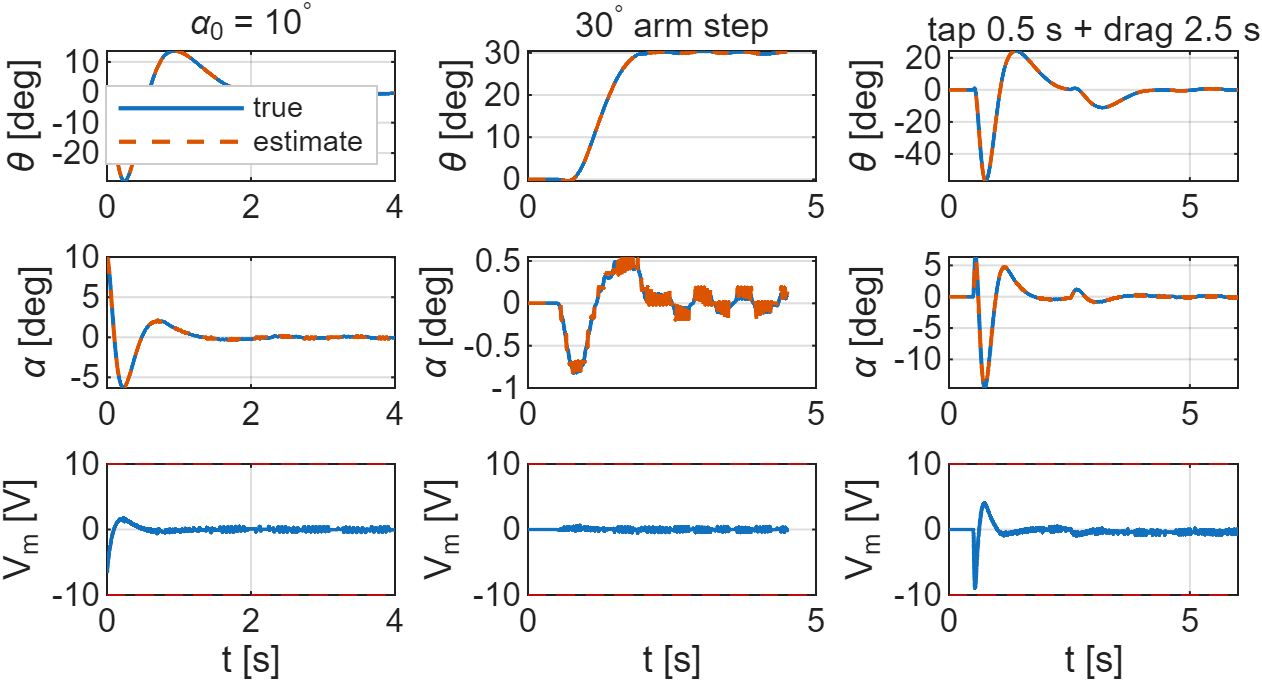
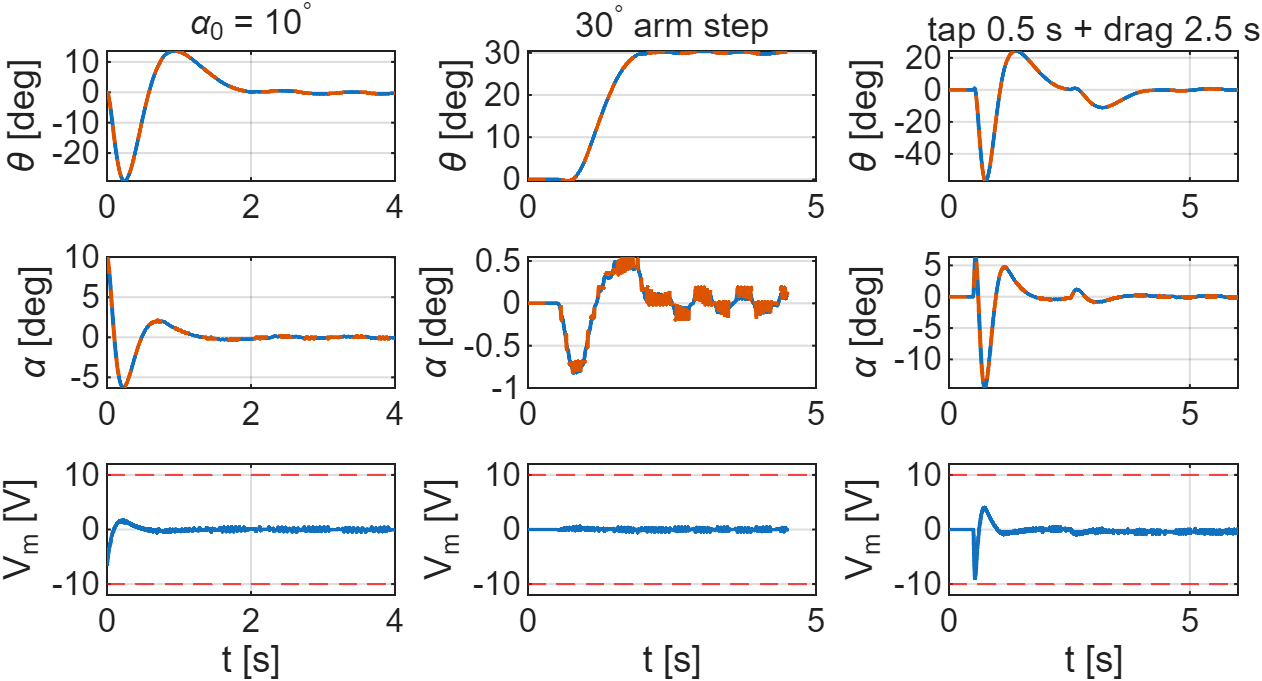
Enhance MATLAB and report files for improved clarity and functionality
- Updated `week9_model_and_openloop.m` to include condition numbers in reachability and observability rank outputs for better diagnostics.
- Modified `expected_results.txt` to reflect changes in reachability and observability ranks with condition numbers.
- Improved `furuta_diagram.py` to ensure the output directory for figures is created if it doesn't exist.
- Revised `main.tex` to correct parameter checks and improve clarity in the description of disturbances and design criteria.
- Adjusted references to disturbances in the design criteria section for consistency and clarity.
- Updated the README file to accurately describe the contents and purpose of the `furuta_nl.m` file.

diff --git a/report/main.tex b/report/main.tex
@@ -106,7 +106,7 @@ D_\eta&=\begin{bmatrix}D_r+k_tk_m/R_m&0\\0&D_p\end{bmatrix}, & K_\eta&=\begin{bm
 Here $M$ is the inertia matrix, $D_\eta$ contains the viscous damping and the effective damping from the motor back-EMF, $K_\eta$ contains the gravitational term, and $G$ maps the motor voltage to torque on the arm. The negative entry in $K_\eta$ means gravity pushes the pendulum away from upright, which is the source of the instability.
 
 \subsection{Parameters}
-Table~\ref{tab:params} lists the parameters. Most match a published model of the Quanser QUBE-Servo~2 \cite{xu2023}, and the motor constants match a commercial coreless DC motor \cite{allied}. We model the arm as a uniform bar with the motor at one end, so $J_r=m_rL_r^2/3$, consistent with $L_r$ being the distance from motor axis to pendulum joint and with \cite{gafvert1998}. \begin{rw}We check $m_r$ by assuming a solid aluminium bar ($2700$\,kg/m$^3$) of length $L_r$ and a $20\times20$\,mm section, which gives 0.092\,kg, within 3\% of the value used.\end{rw}
+Table~\ref{tab:params} lists the parameters. Most match a published model of the Quanser QUBE-Servo~2 \cite{xu2023}, and the motor constants match a commercial coreless DC motor \cite{allied}. We model the arm as a uniform bar with the motor at one end, so $J_r=m_rL_r^2/3$, consistent with $L_r$ being the distance from motor axis to pendulum joint and with \cite{gafvert1998}. \begin{rw}We check $m_r$ by assuming a solid aluminium bar ($2700$\,kg/m$^3$) of length $L_r$ and a $20\times20$\,mm section, which gives 0.092\,kg, within 4\% of the value used.\end{rw}
 \begin{table}[t]
 \caption{Model parameters}\label{tab:params}
 \centering\footnotesize\setlength{\tabcolsep}{3pt}
@@ -130,7 +130,7 @@ $k_t, k_m$ & Torque / back-EMF constant & 0.042\,N\,m/A & \cite{xu2023}\\ \hline
 \end{table}
 
 \subsection{Disturbances}
-We model three disturbances: a bump to the pendulum, as a 20\,mN\,m, 20\,ms torque pulse on the pendulum (about a 4.4\,rad/s velocity kick); constant arm drag from the encoder cable or motor friction, as a 2\,mN\,m step; and random unmodelled torques, as sample-held white noise with assumed standard deviations of 0.2 and 0.05\,mN\,m on the arm and pendulum.
+We model three disturbances: a tap on the pendulum, as a 20\,mN\,m, 20\,ms torque pulse on the pendulum (about a 4.4\,rad/s velocity kick); constant arm drag from the encoder cable or motor friction, as a 2\,mN\,m step; and random unmodelled torques, as sample-held white noise with assumed standard deviations of 0.2 and 0.05\,mN\,m on the arm and pendulum.
 \begin{rw}
 These enter through $\tau_p$ and $\tau_d$ in \eqref{eq:arm}--\eqref{eq:pend}. The pulse represents a firm knock and is the hardest test for the observer, as it only sees the kick in $\alpha$ afterwards. The drag is about 4\% of the 0.05\,N\,m stall torque and a fifth of the 10\,mN\,m Coulomb friction G\"afvert identified on a larger rig~\cite{gafvert1998}. The random torques are assumed. The pulse tests the 15\textdegree{} limit, the drag the steady-state error and the noise the voltage (Section~V-D).
 \end{rw}
@@ -138,9 +138,9 @@ These enter through $\tau_p$ and $\tau_d$ in \eqref{eq:arm}--\eqref{eq:pend}. Th
 \subsection{Sensors and noise}
 Only $\theta$ and $\alpha$ are measured, by 512-cycle optical encoders read in quadrature (2048 counts/rev)~\cite{heds5540}. The output is digital, so the dominant error is quantisation:
 \begin{equation}
-y_k = q\,\mathrm{round}\!\left(\frac{Cx(kT_s)+b}{q}\right),\quad q=\frac{2\pi}{2048}\text{ rad},\label{eq:quant}
+y_k = q\,\mathrm{round}\!\left(\frac{Cx(kT_s)+b_e}{q}\right),\quad q=\frac{2\pi}{2048}\text{ rad},\label{eq:quant}
 \end{equation}
-which behaves like noise of standard deviation $\sigma_v=q/\sqrt{12}=0.886$\,mrad while the angle is changing. \begin{rw}The datasheet's position error (10\,arcmin typical, 40 maximum) varies slowly with angle, hence it is modelled as a constant offset $b$.\end{rw} Velocities are not measured, and differentiating \eqref{eq:quant} is impractical because one count per sample is a $176^\circ$/s jump, which is why an observer is needed.
+which behaves like noise of standard deviation $\sigma_v=q/\sqrt{12}=0.886$\,mrad while the angle is changing. \begin{rw}The datasheet's position error (10\,arcmin typical, 40 maximum) varies slowly with angle, hence it is modelled as a constant offset $b_e$.\end{rw} Velocities are not measured, and differentiating \eqref{eq:quant} is impractical because one count per sample is a $176^\circ$/s jump, which is why an observer is needed.
 
 \subsection{Limitations}
 Simplifications are made by ignoring the Coulomb friction and stiction observed in real joints \cite{gafvert1998,bellati2021}, link flexibility, and the motor's rotor inertia. The last is justified from the motor's datasheet \cite{allied}: the rotor adds less than 2\% of the arm's inertia $J_r$.
@@ -155,12 +155,12 @@ A motor with matching constants \cite{allied} is rated at 18\,V, 0.54\,A continu
 % =====================================================================
 \section{Problem Definition}
 \subsection{Aim}
-The aim is to keep the pendulum upright, move the arm to a commanded angle $r$, and reject bumps within the actuator limits. The design criteria are chosen so that the limits of the hardware are not exceeded, with the rise and settling times set as fast as the motor voltage limit and the non-minimum-phase arm dynamics allow.
+The aim is to keep the pendulum upright, move the arm to a commanded angle $r$, and reject disturbances such as a tap within the actuator limits. Arm positioning matters because a balancing vehicle must also move to a commanded position while upright~\cite{pujol2014}. The design criteria are chosen so that the limits of the hardware are not exceeded, with the rise and settling times set as fast as the motor voltage limit and the non-minimum-phase arm dynamics allow.
 
 \subsection{State-space model}
 The system is linearised about the upright equilibrium $\bar x=[\bar\theta\;\;0\;\;0\;\;0]^T$, $\bar u=0$. Because the arm moves in the horizontal plane, it is in equilibrium at every angle $\bar\theta$, so a single linear model is valid whatever angle the arm is commanded to, while the pendulum must stay near $\alpha=0$ for the small-angle linearisation to hold.
 
-From the arm's point of view, the pendulum adds a mass $m_p$ at radius $L_r$, so the total effective inertia of the arm is $a=J_r+m_pL_r^2$, which forms the $(1,1)$ entry of $M$. Since the arm moves in the horizontal plane, gravity does no work on it, so the first column of $K_\eta$, and hence of $A_{21}$, is zero and the arm angle behaves as a free integrator with an open-loop pole at the origin.
+From the arm's point of view, the pendulum adds a mass $m_p$ at radius $L_r$, so the total effective inertia of the arm is $a=J_r+m_pL_r^2$, which forms the $(1,1)$ entry of $M$. Gravity does no work on the horizontal arm, so the first column of $K_\eta$, and hence of $A_{21}$, is zero and the arm angle behaves as a free integrator with an open-loop pole at the origin.
 Choosing the state vector $x=[\theta\;\;\alpha\;\;\dd\;\;\da]^T=[\eta\;\;\dot\eta]^T$ and input $u=V_m$, and solving for the accelerations, $\ddot\eta=-M^{-1}K_\eta\eta-M^{-1}D_\eta\dot\eta+M^{-1}Gu$, the state derivative follows by stacking the trivial relation $\frac{d}{dt}\eta=\dot\eta$ above this result,
 \begin{equation}
 \dot x=\begin{bmatrix}\dot\eta\\\ddot\eta\end{bmatrix}=\begin{bmatrix}0_{2\times2}&I_2\\-M^{-1}K_\eta&-M^{-1}D_\eta\end{bmatrix}\begin{bmatrix}\eta\\\dot\eta\end{bmatrix}+\begin{bmatrix}0_{2\times1}\\M^{-1}G\end{bmatrix}u, \label{eq:stack}
@@ -178,9 +178,9 @@ B=\begin{bmatrix}0\\0\\18.37\\18.16\end{bmatrix}.
 The open-loop poles are $0$, $-14.06$, $-1.75$ and $+12.09$\,rad/s. The pole at $+12.09$\,rad/s confirms that the upright equilibrium is unstable. The transfer function from $V_m$ to $\theta$ also has a right-half-plane zero at $+10.31$\,rad/s: the arm first moves the wrong way, to tip the pendulum in the direction of travel. This limits how fast the arm can be made to track.
 
 \subsection{Design criteria}
-The controller is designed around the following main requirements. The pendulum must recover from a $10^\circ$ displacement to within $1^\circ$ of upright in under 1.5\,s. When the arm is commanded to $30^\circ$, the response must have an overshoot below 5\%, an undershoot below 10\%, a rise time of at least 0.3\,s and a settling time below 2.5\,s. Throughout, the peak motor voltage must stay below 10\,V. The controller must also reject disturbances: after a bump to the pendulum, the pendulum must stay within $15^\circ$ of upright and the arm within $90^\circ$. The $15^\circ$ bound is not the angle at which the pendulum falls; the controller can still catch it beyond this, by moving the arm under the pendulum, provided the motor is not saturated. Under a constant arm drag the final arm angle error must be below $2^\circ$. Finally, the design should remain stable under $\pm20\%$ variations in the model parameters. \begin{rw}Table~\ref{tab:req} lists these alongside the results from Section~V.\end{rw}
+The controller is designed around the following main requirements. The pendulum must recover from a $10^\circ$ displacement to within $1^\circ$ of upright in under 1.5\,s. When the arm is commanded to $30^\circ$, the response must have an overshoot below 5\%, an undershoot below 10\%, a rise time of at least 0.3\,s and a settling time below 2.5\,s. Throughout, the peak motor voltage must stay below 10\,V. The controller must also reject disturbances: after a tap on the pendulum, the pendulum must stay within $15^\circ$ of upright and the arm within $90^\circ$. The $15^\circ$ bound is not the angle at which the pendulum falls; the controller can still catch it beyond this, by moving the arm under the pendulum, provided the motor is not saturated. Under a constant arm drag the final arm angle error must be below $2^\circ$. Finally, the design should remain stable under $\pm20\%$ variations in the model parameters. \begin{rw}Table~\ref{tab:req} lists these alongside the results from Section~V.\end{rw}
 
-\emph{Speed:} the right-half-plane zero of the $V_m\to\theta$ transfer function at $z=10.31$\,rad/s limits the achievable arm tracking bandwidth to approximately $\omega_B<z/2\approx5.2$\,rad/s~\cite{skogestad2005}. Taking $\omega_n\approx\omega_B$, this gives a minimum rise time of roughly $1.8/\omega_n\approx0.35$\,s and, with $\zeta\approx0.7$, a minimum settling time of roughly $4/(\zeta\omega_n)\approx1.1$\,s. The rise time of at least 0.3\,s and settling time below 2.5\,s are therefore realistic, while leaving margin for the voltage limit and model error. \begin{rw}The voltage limit gives a similar bound (Section~IV-B).\end{rw} The same zero makes some undershoot unavoidable, so it is limited rather than eliminated. \emph{Recovery:} \begin{rw}the 1.5\,s recovery time is a design choice, shorter than the 2.5\,s allowed for an arm step.\end{rw} \emph{Limits:} the 10\,V limit is a conservative design choice (Section~II-F), the $15^\circ$ pendulum bound keeps the small-angle approximation error below 1.2\% for $\sin\alpha$ (3.4\% for $\cos\alpha$), and the $90^\circ$ arm bound is a workspace limit we chose (Section~II-F). \emph{Overshoot:} the 5\% limit prevents the arm from swinging the pendulum excessively. \emph{Disturbances and robustness:} the drag criterion reflects the significant arm-joint friction identified experimentally in~\cite{gafvert1998}, and the $\pm20\%$ criterion reflects the uncertainty in the damping and motor parameters. Using $\zeta=-\ln(OS)/\sqrt{\pi^2+\ln^2(OS)}$ and $T_s\approx4/(\zeta\omega_n)$, the overshoot and settling criteria require $\zeta\ge0.69$ and $\zeta\omega_n\ge1.6$\,rad/s. The remaining criteria cannot be written as pole conditions and are verified in simulation in Section~V.
+\emph{Speed:} the right-half-plane zero of the $V_m\to\theta$ transfer function at $z_0=10.31$\,rad/s limits the achievable arm tracking bandwidth to approximately $\omega_B<z_0/2\approx5.2$\,rad/s~\cite{skogestad2005}. Taking $\omega_n\approx\omega_B$, this gives a minimum rise time of roughly $1.8/\omega_n\approx0.35$\,s and, with $\zeta\approx0.7$, a minimum settling time of roughly $4/(\zeta\omega_n)\approx1.1$\,s. The rise time of at least 0.3\,s and settling time below 2.5\,s are therefore realistic, while leaving margin for the voltage limit and model error. \begin{rw}The voltage limit gives a similar bound (Section~IV-B).\end{rw} The same zero makes some undershoot unavoidable, so it is limited rather than eliminated. \emph{Recovery:} \begin{rw}the 1.5\,s recovery time is a design choice, shorter than the 2.5\,s allowed for an arm step.\end{rw} \emph{Limits:} the 10\,V limit is a conservative design choice (Section~II-F), the $15^\circ$ pendulum bound keeps the small-angle approximation error below 1.2\% for $\sin\alpha$ (3.4\% for $\cos\alpha$), and the $90^\circ$ arm bound is a workspace limit we chose (Section~II-F). \emph{Overshoot:} the 5\% limit prevents the arm from swinging the pendulum excessively. \emph{Disturbances and robustness:} the drag criterion reflects the significant arm-joint friction identified experimentally in~\cite{gafvert1998}, and the $\pm20\%$ criterion reflects the uncertainty in the damping and motor parameters. Using $\zeta=-\ln(OS)/\sqrt{\pi^2+\ln^2(OS)}$ and $T_s\approx4/(\zeta\omega_n)$, the overshoot and settling criteria require $\zeta\ge0.69$ and $\zeta\omega_n\ge1.6$\,rad/s. The remaining criteria cannot be written as pole conditions and are verified in simulation in Section~V.
 
 \begin{table}[t]
 \caption{Design criteria and results on the nonlinear model}\label{tab:req}
@@ -194,11 +194,11 @@ Recovery from 10\textdegree: $|\alpha|<1^\circ$ & $\le1.5$\,s & 0.97\,s\\
 30\textdegree{} step: undershoot & $\le10$\% & 1.3\%\\
 30\textdegree{} step: rise time & $\ge0.3$\,s & 0.75\,s\\
 Peak voltage (recovery, step, tap) & $\le10$\,V & 9.0\,V\\
-Bump: $\max|\alpha|$ & $\le15^\circ$ & 14.6\textdegree\\
-Bump: $\max|\theta|$ & $\le90^\circ$ & 57.0\textdegree\\
+Tap: $\max|\alpha|$ & $\le15^\circ$ & 14.6\textdegree\\
+Tap: $\max|\theta|$ & $\le90^\circ$ & 57.0\textdegree\\
 Arm drag: mean final $\theta$ error & $<2^\circ$ & 0.25\textdegree\\
 $\pm20$\%: recovers from 10\textdegree{} & all & 38/40 (partial)\\
-$\pm20$\%: also survives bump & all & 31/40 (partial)\\
+$\pm20$\%: also survives tap & all & 31/40 (partial)\\
 \hline
 \end{tabular}
 \end{table}
@@ -207,7 +207,7 @@ $\pm20$\%: also survives bump & all & 31/40 (partial)\\
 \section{Controller Design}
 \subsection{Reachability and observability}
 \begin{rw}
-The reachability matrix has rank 4, so all poles can be placed using the single voltage input. The observability matrix has rank 4 using both encoders or $\theta$ alone, but rank 3 with $\alpha$ alone, as the arm angle does not affect the pendulum dynamics.
+The reachability matrix has rank 4 (condition number $3.7\times10^3$), so all poles can be placed using the single voltage input. The observability matrix has rank 4 using both encoders (condition number 457) or $\theta$ alone, but rank 3 with $\alpha$ alone, as the arm angle does not affect the pendulum dynamics.
 \end{rw}
 
 \subsection{State feedback: an iterative design}
@@ -219,11 +219,11 @@ As the plant has four states, we choose a dominant pole pair inside the pole reg
 \item \emph{D3, slower dominant pair.} $\omega_n=3$\,rad/s only saves 0.6\,V and leaves little settling margin (2.15\,s).
 \item \emph{D4, more damping.} $\zeta=0.75$, chosen for margin above 0.69, and $\omega_n=3.6$\,rad/s give $-2.7\pm2.38j$, with fast poles at $4\sigma$ and $5\sigma$ for $\sigma=\zeta\omega_n=2.7$. This has the lowest voltage and less overshoot than D1--D3.
 \end{itemize}
-Faster poles need more voltage, which we found iteratively. With $\zeta=0.75$, fast poles at $4\sigma$ and $5\sigma$ and the true state, recovering from a 10\textdegree{} tilt initially needs 4.6\,V at $\omega_n=3.6$\,rad/s but 10\,V at $\omega_n=5.7$\,rad/s. An early 0.8\,s settling target needed $\omega_n\approx6.7$\,rad/s and 13.5\,V, hence we dropped it. D2 and D4 both meet the criteria on the linear model.
+Faster poles need more voltage, which we found iteratively. With $\zeta=0.75$, fast poles at $4\sigma$ and $5\sigma$ and the true state, recovering from a 10\textdegree{} tilt initially needs 4.6\,V at $\omega_n=3.6$\,rad/s but 10\,V at $\omega_n=5.7$\,rad/s. An early 0.8\,s settling target needed $\omega_n\approx6.7$\,rad/s and 13.5\,V, hence we dropped it. D2--D4 all meet the criteria on the linear model.
 
-Testing on the nonlinear model exposed a problem, as without integral action a constant 2\,mN\,m drag leaves the arm resting 26\textdegree{} from its target with the pendulum upright. Holding the arm against the drag needs a steady $\tau_dR_m/k_t=0.4$\,V, which proportional feedback can only provide through an error of $0.4/|k_\theta|$ ($k_\theta=-0.90$ for D4 without the integrator). Hence we added an integrator $\dot\xi=\theta-r$, which keeps growing until $\theta=r$ and therefore supplies this voltage itself. The augmented model $\dot x_a=\left[\begin{smallmatrix}A&0\\C_r&0\end{smallmatrix}\right]x_a+\left[\begin{smallmatrix}B\\0\end{smallmatrix}\right]u-\left[\begin{smallmatrix}0\\1\end{smallmatrix}\right]r$, with $x_a=[x^T\;\xi]^T$, has a fifth pole, which we place at $-5$, between the dominant pair and the fast poles. Feeding the reference through the integrator only, rather than also through
+Testing on the nonlinear model exposed a problem, as without integral action a constant 2\,mN\,m drag leaves the arm (D4, true state) resting 26\textdegree{} from its target with the pendulum upright. Holding the arm against the drag needs a steady $\tau_dR_m/k_t=0.4$\,V, which proportional feedback can only provide through an error of $0.4/|k_\theta|$ ($k_\theta=-0.90$ for D4 without the integrator). Hence we added an integrator $\dot\xi=\theta-r$, which keeps growing until $\theta=r$ and therefore supplies this voltage itself. The augmented model $\dot x_a=\left[\begin{smallmatrix}A&0\\C_r&0\end{smallmatrix}\right]x_a+\left[\begin{smallmatrix}B\\0\end{smallmatrix}\right]u-\left[\begin{smallmatrix}0\\1\end{smallmatrix}\right]r$, with $x_a=[x^T\;\xi]^T$, has a fifth pole, which we place at $-5$, between the dominant pair and the fast poles. Feeding the reference through the integrator only, rather than also through
 the proportional term, cut the overshoot from 51\% to 1.7\%. D4 then beat
-D2 on every test (Table~\ref{tab:designs}), so it was chosen, giving the
+D2 on every test with the integrator and observer (settling in 1.38 compared to 1.97\,s, and a 14.6 compared to 15.0\textdegree{} tap at 9.0 compared to 9.7\,V), so it was chosen, giving the
 final control law
 
 \begin{equation}
@@ -237,7 +237,7 @@ with closed-loop poles $-2.7\pm2.38j$, $-5$, $-10.8$, $-13.5$. The negative arm 
 \end{rw}
 
 \begin{table}[t]
-\caption{Candidate designs without the integrator (reference through $k_\theta$): linear $\theta$ step, initial voltage at 10\textdegree, and largest recoverable tilt (nonlinear)}\label{tab:designs}
+\caption{Candidate designs without the integrator (reference through $k_\theta$): linear $\theta$ step with overshoot (OS) and undershoot (US), initial voltage $V_{10^\circ}$ for a 10\textdegree{} tilt, and largest recoverable tilt (nonlinear)}\label{tab:designs}
 \centering\footnotesize\setlength{\tabcolsep}{2.5pt}
 \begin{tabular}{llllllll}
 \hline
@@ -277,7 +277,7 @@ L_1=\begin{bmatrix}227.4&-0.36\\-2.58&228.9\end{bmatrix},\quad L_2=\begin{bmatri
 \begin{rw}
 Here $L_1$ acts as damping and $L_2$ as stiffness on the angle errors, and $\mathrm{eig}(A-LC)$ matches these poles to $10^{-12}$.
 
-\emph{Choice of poles.} These poles are 7.4--9.6 times faster than the fastest controller pole, and Table~\ref{tab:obs} shows why. Slow observers give smooth estimates, but react too late to a bump and leave more perturbed plants unstable, which is consistent with the loss of guaranteed margins in observer-based loops \cite{doyle1978}. Very fast observers turn quantisation into voltage noise. This set is the slowest we tested that still meets the bump limit.
+\emph{Choice of poles.} These poles are 7.4--9.6 times faster than the fastest controller pole, and Table~\ref{tab:obs} shows why. Slow observers give smooth estimates, but react too late to a tap and leave more perturbed plants unstable, which is consistent with the loss of guaranteed margins in observer-based loops \cite{doyle1978}. Very fast observers turn quantisation into voltage noise. This set is the slowest we tested that still meets the tap limit.
 
 \emph{Implementation.} The encoders are read at $T_s=1$\,ms, hence the observer runs in discrete time. It uses the plant sampled with a zero-order hold and is driven by the saturated voltage, so that its estimate stays correct during saturation:
 \end{rw}
@@ -293,7 +293,7 @@ The same poles map to $z=e^{pT_s}$ ($|z|\le0.905$). We compute the sampled gain 
 \centering\footnotesize\setlength{\tabcolsep}{3pt}
 \begin{tabular}{lllll}
 \hline
-Poles (rad/s) & RMS $u$ (V) & RMS $\da$ error (\textdegree/s) & Bump & Unstable/200\\ \hline
+Poles (rad/s) & RMS $u$ (V) & RMS $\da$ error (\textdegree/s) & Tap & Unstable/200\\ \hline
 $-15\ldots-18$ & 0.045 & 0.53 & falls & 52\\
 $-40\ldots-55$ & 0.095 & 1.05 & 20.4\textdegree & 10\\
 $\mathbf{-100\ldots-130}$ & 0.216 & 2.94 & 14.6\textdegree & 3\\
@@ -305,7 +305,7 @@ True state & -- & -- & 11.4\textdegree & 1\\
 
 \subsection{Stability ranges and margins}
 \begin{rw}
-Table~\ref{tab:ranges} gives the stable range of each gain with the others nominal, and of all gains scaled together; any negative $k_i$ down to $-14.5$ is stable, as $k_i=0$ only leaves the integrator pole at $z=1$. Figure~\ref{fig:margins} in the Appendix shows the loop broken at the plant input. As the loop has one unstable open-loop pole, stability requires the Nyquist plot to encircle $-1$ once. The gain can fall to 0.59 times ($-4.6$\,dB) or rise to 6.7 times ($+16.6$\,dB) nominal before instability. The lower limit exists because an unstable plant needs a minimum gain. The phase margin is 36\textdegree{} and the delay margin 29\,ms. With the true state fed back the phase margin is 59\textdegree, hence the observer costs about 23\textdegree{}.
+Table~\ref{tab:ranges} gives the stable range of each gain with the others nominal, and of all gains scaled together; any negative $k_i$ down to $-14.5$ is stable, as $k_i=0$ only leaves the integrator pole at $z=1$. Figure~\ref{fig:margins} in the Appendix shows the loop broken at the plant input. As the loop has one unstable open-loop pole, stability requires the Nyquist plot to encircle $-1$ once anticlockwise. The gain can fall to 0.59 times ($-4.6$\,dB) or rise to 6.7 times ($+16.6$\,dB) nominal before instability. The lower limit exists because an unstable plant needs a minimum gain. The phase margin is 36\textdegree{} and the delay margin 29\,ms. With the true state fed back the phase margin is 59\textdegree, hence the observer costs about 23\textdegree{}.
 \end{rw}
 
 \begin{table}[t]
@@ -332,7 +332,7 @@ All tests use the nonlinear model \eqref{eq:arm}--\eqref{eq:motor}, integrated w
 
 \begin{figure*}[t]
 \centering\includegraphics[width=4.21in]{w12_validation_overview.png}
-\caption{Nonlinear closed-loop responses with the observer: release from 10\textdegree{} (left), reference step from 0 to 30\textdegree{} at 0.5\,s (centre), tap at 0.5\,s and arm drag from 2.5\,s (right). Rows: arm angle, pendulum angle (true and estimated), motor voltage with limits.}
+\caption{Nonlinear closed-loop responses with the observer: release from 10\textdegree{} (left), reference step from 0 to 30\textdegree{} at 0.5\,s (centre), tap at 0.5\,s and arm drag from 2.5\,s (right). Rows: arm angle, pendulum angle and motor voltage; solid: true, dashed: estimated, red dashed: $\pm10$\,V limits.}
 \label{fig:overview}
 \end{figure*}
 
@@ -340,7 +340,7 @@ All tests use the nonlinear model \eqref{eq:arm}--\eqref{eq:motor}, integrated w
 \begin{rw}
 On the left of Fig.~\ref{fig:overview}, the pendulum is released from 10\textdegree{} with the arm at rest. It is within 1\textdegree{} of upright after 0.97\,s, with the voltage peaking at 6.6\,V and a current of 0.79\,A.
 
-The centre column is the 30\textdegree{} arm step, with $r$ stepping from 0 to 30\textdegree{} at $t=0.5$\,s. Measured from that instant, the 10--90\% rise time is 0.75\,s and the 2\% ($\pm0.6$\textdegree) settling time 1.38\,s. The arm first moves 0.4\textdegree{} the wrong way (1.3\% undershoot), as the right-half-plane zero predicts, and then overshoots by 1.4\%. The pendulum tilts by at most 0.82\textdegree{} and only uses 0.63\,V.
+The centre column is the 30\textdegree{} arm step, with $r$ stepping from 0 to 30\textdegree{} at $t=0.5$\,s. Measured from that instant, the 10--90\% rise time is 0.75\,s and the 2\% ($\pm0.6$\textdegree) settling time 1.38\,s. The arm first moves 0.4\textdegree{} the wrong way (1.3\% undershoot), as the right-half-plane zero predicts, and then overshoots by 1.4\%. The pendulum tilts by at most 0.82\textdegree, and the step needs only 0.63\,V.
 \end{rw}
 
 \subsection{Linear versus nonlinear model}
@@ -350,31 +350,31 @@ Figure~\ref{fig:linnl} in the Appendix compares the same controller on both mode
 
 \subsection{Estimation error}
 \begin{rw}
-Figure~\ref{fig:obs} in the Appendix tests convergence from the worst-case start, where the pendulum is released from 10\textdegree{} while the observer starts at $\hat x=0$. The angle estimates correct first ($\hat\alpha$ is within 1\textdegree{} after 7\,ms), while the velocity estimates overshoot, because the observer treats the angle error as motion. The rate-error norm peaks at 7.2\,rad/s after 9\,ms and falls to about 0.04\,rad/s by 60\,ms, consistent with observer time constants of about 10\,ms. All eigenvalues of $A_d-L_dC$ lie inside the unit circle, so the error converges to zero: with exact encoders the same start gives an error norm of $5\times10^{-6}$ by 1\,s (dashed in Fig.~\ref{fig:obs}). With quantisation it reaches a noise floor: after 0.2\,s the RMS errors are 0.72 and 1.0\,mrad on the angles, close to $\sigma_v=0.886$\,mrad, and 1.7 and 2.5\textdegree/s on the velocities. This start holds the voltage at the 10\,V limit for 24\,ms, whereas the true state only needs 6.6\,V, hence the other tests initialise $\hat x$ from the first encoder reading.
+Figure~\ref{fig:obs} in the Appendix tests convergence from the worst-case start, where the pendulum is released from 10\textdegree{} while the observer starts at $\hat x=0$. The angle estimates correct first ($\hat\alpha$ is within 1\textdegree{} after 7\,ms), while the velocity estimates overshoot, because the observer treats the angle error as motion. The rate-error norm peaks at 7.2\,rad/s after 9\,ms and falls to about 0.04\,rad/s by 60\,ms, consistent with observer time constants of about 10\,ms. All eigenvalues of $A_d-L_dC$ lie inside the unit circle, so the error converges to zero: with exact encoders the same start gives an error norm of $5\times10^{-6}$ by 1\,s and $8\times10^{-16}$ by 4\,s (dashed in Fig.~\ref{fig:obs}). With quantisation it reaches a noise floor: after 0.2\,s the RMS errors are 0.72 and 1.0\,mrad on the angles, close to $\sigma_v=0.886$\,mrad, and 1.7 and 2.5\textdegree/s on the velocities. This start holds the voltage at the 10\,V limit for 24\,ms, whereas the true state only needs 6.6\,V, hence the other tests initialise $\hat x$ from the first encoder reading.
 \end{rw}
 
 \begin{figure}[t]
 \centering\includegraphics[width=2.41in]{w12_monte_carlo.png}
-\caption{Pendulum angle for 40 plants with $\pm20$\% random parameters, released from 10\textdegree, with a tap at 2\,s. Red: plants that fall after the tap.}
+\caption{Pendulum angle for 40 plants with $\pm20$\% random parameters, released from 10\textdegree, with a tap at 2\,s. Red: plants that fall (two before the tap).}
 \label{fig:mc}
 \end{figure}
 
 \subsection{Disturbances and measurement noise}
 \begin{rw}
-The tap (Fig.~\ref{fig:overview}, right) reaches 14.6\textdegree, which is inside the 15\textdegree{} criterion by only 0.4\textdegree, using 9.0\,V and 1.06\,A, and $|\alpha|$ is back below 1\textdegree{} after 1.05\,s. With the true state the peak is 11.4\textdegree, hence the difference comes from the observer's delay in seeing an unmeasured kick. Under arm drag the integrator leaves a mean error of 0.25\textdegree{} (26\textdegree{} without it, Section~IV-B), and 0.05\textdegree{} for the datasheet's maximum 40\,arcmin encoder offset.
+The tap (Fig.~\ref{fig:overview}, right) reaches 14.6\textdegree, which is inside the 15\textdegree{} criterion by only 0.4\textdegree, using 9.0\,V and 1.06\,A, and $|\alpha|$ is back below 1\textdegree{} after 1.05\,s. With the true state the peak is 11.4\textdegree, hence the difference comes from the observer's delay in seeing an unmeasured kick. Under arm drag the integrator leaves a mean error of 0.25\textdegree{} (26\textdegree{} with the true state and no integrator, Section~IV-B), and 0.05\textdegree{} for the datasheet's maximum 40\,arcmin encoder offset.
 
-The observer and quantiser form a small limit cycle, which the linear analysis does not predict, with about 0.7\textdegree{} peak-to-peak arm ripple and 0.22\,V RMS. This fits inside the $\pm0.6$\textdegree{} band of a 30\textdegree{} step, but moves the measured settling time from 1.43\,s without quantisation to 1.38\,s, so part of the headline 1.38\,s is due to the ripple. With the random torques added as well, the RMS voltage is 0.22\,V, the RMS pendulum and arm angles are 0.09\textdegree{} and 0.36\textdegree, and the RMS $\da$ estimation error is 2.97\textdegree/s. This voltage noise is feasible, and a slower observer would only reduce it at a cost in robustness.
+The observer and quantiser form a small limit cycle, which the linear analysis does not predict, with about 0.7\textdegree{} peak-to-peak arm ripple and 0.22\,V RMS. This fits inside the $\pm0.6$\textdegree{} band of a 30\textdegree{} step, but moves the measured settling time from 1.43\,s without quantisation to 1.38\,s, so part of the headline 1.38\,s is due to the ripple. With the random torques added as well, the RMS voltage is still 0.22\,V, the RMS pendulum and arm angles are 0.09\textdegree{} and 0.36\textdegree, and the RMS $\da$ estimation error is 2.97\textdegree/s. This voltage noise is feasible, and a slower observer would only reduce it at a cost in robustness.
 \end{rw}
 
 \subsection{Parameter uncertainty}
 \begin{rw}
-Figure~\ref{fig:mc} shows 40 plants with all parameters randomly varied by $\pm20$\%. Section~II-F justifies this range. Of these, 39 are linearly stable, 38 recover from 10\textdegree{}, and 31 also survive the tap, hence the $\pm20$\% criterion is only partly met. Over 200 random plants, 3 are linearly unstable with the observer and 1 with the true state. Plants that fall tend to have a weaker motor and a shorter arm (mean factors 0.84 and 0.91, against 1.02 and 1.01), which lower the loop gain towards its lower limit. The design also stays stable with $J_r=m_rL_r^2/12$ \cite{xu2023} (tap 8.3\textdegree) and with higher damping of 0.0015 and 0.0005 (tap 12.7\textdegree), although that plant is close to marginal ($|z|=0.9996$), with a slow wobble of about 1\,V RMS. A faster observer ($-250\ldots-280$\,rad/s) would cut the unstable plants to 2/200 at about 2.3 times the noise voltage (Table~\ref{tab:obs}), while an observer that also estimates the disturbance torque would target the robustness the observer costs.
+Figure~\ref{fig:mc} shows 40 plants with all parameters randomly varied by $\pm20$\%. Section~II-F justifies this range. Of these, 39 are linearly stable, 38 recover from 10\textdegree{}, and 31 also survive the tap, hence the $\pm20$\% criterion is only partly met. Over 200 random plants, 3 are linearly unstable with the observer and 1 with the true state. Plants that fall tend to have a weaker motor and a shorter arm (mean factors 0.84 and 0.91, against 1.02 and 1.01), which lower the loop gain towards its lower limit. The design also stays stable with $J_r=m_rL_r^2/12$ \cite{xu2023} (tap 8.3\textdegree) and with higher damping, $D_r=0.0015$ and $D_p=0.0005$\,N\,m\,s/rad (tap 12.7\textdegree), although that plant is close to marginal ($|z|=0.9996$), with a slow wobble of about 1\,V RMS. A faster observer ($-250\ldots-280$\,rad/s) would cut the unstable plants to 2/200 at about 2.3 times the noise voltage (Table~\ref{tab:obs}), while an observer that also estimates the disturbance torque would target the robustness the observer costs.
 \end{rw}
 
 % =====================================================================
 \section{Conclusions}
 \begin{rw}
-The Furuta pendulum is a nonlinear, under-actuated benchmark whose upright position requires continuous feedback. We showed that an LTI observer-based controller, designed by pole placement, stabilises the full nonlinear model at 1\,kHz within voltage limits, using only two quantised encoders. It recovers from 10\textdegree{} in 0.97\,s, tracks a 30\textdegree{} step with 1.4\% overshoot and 1.38\,s settling, and has margins of $-4.6$/$+16.6$\,dB and 36\textdegree, meeting all nominal criteria with 0.4\textdegree{} to spare on the tap limit. It catches tilts of up to 24\textdegree, but only 38 of 40 plants with $\pm20$\% parameters recover and 31 survive the tap, so the uncertainty criterion is only partly met. Testing revealed a double-counted reference, the cost of a slow observer and a quantisation limit cycle.
+The Furuta pendulum is a nonlinear, under-actuated benchmark whose upright position requires continuous feedback. We showed that an LTI observer-based controller, designed by pole placement, stabilises the full nonlinear model at 1\,kHz within voltage limits, using only two quantised encoders. It recovers from 10\textdegree{} in 0.97\,s, tracks a 30\textdegree{} step with 1.4\% overshoot and 1.38\,s settling, and has margins of $-4.6$/$+16.6$\,dB and 36\textdegree, meeting all nominal criteria with 0.4\textdegree{} to spare on the tap limit. It catches tilts of up to 24\textdegree, but only 38 of 40 plants with $\pm20$\% parameters recover and 31 survive the tap, so the uncertainty criterion is only partly met. Testing showed the reference must enter only through the integrator, and revealed the cost of a slow observer and a 0.7\textdegree{} quantisation limit cycle.
 
 Future work should measure the damping (the least certain parameter) and arm inertia on hardware, add Coulomb friction, which the linear design ignores, and estimate the disturbance torque in the observer to recover the 3.2\textdegree{} it costs on the tap. Energy-based swing-up \cite{astrom1996} would also extend the operating range to the full circle.
 \end{rw}
@@ -388,7 +388,7 @@ Future work should measure the damping (the least certain parameter) and arm ine
 
 \begin{figure*}[t]
 \centering\includegraphics[width=0.84\textwidth]{w12_margins.png}
-\caption{Loop broken at the plant input. Left: Bode plot. Right: Nyquist plot near $-1$. Observer-based loop (solid) and true-state loop (dashed).}
+\caption{Loop broken at the plant input. Left: Bode plot. Right: Nyquist plot near $-1$. Observer-based loop (solid) and true-state loop (dashed); dotted: $|1+L|=0.5$.}
 \label{fig:margins}
 \end{figure*}
 
@@ -419,7 +419,7 @@ Figure~\ref{fig:diagram} shows the geometry used in Section~II, Figs.~\ref{fig:m
 
 \section*{Acknowledgment}
 \begin{rw}
-We acknowledge the use of Claude (Opus 5.5, Anthropic, \url{https://claude.ai}), through Claude Code, to check derivations, write and debug the MATLAB code, find and summarise literature, and draft most of the abstract and Sections IV--VI and parts of Sections II--III. We reviewed and edited all of its output, and checked it against the cited sources and our own simulations. A log of this use is kept with the code. The MATLAB files submitted with this report reproduce all results (\texttt{run\_all.m}).
+We acknowledge the use of Claude (Opus 5.5, Anthropic, \url{https://claude.ai}), through Claude Code, to check derivations, write and debug the MATLAB code, find and summarise literature, and draft most of the abstract and Sections IV--VI and parts of Sections II--III. We reviewed and edited all of its output, and checked it against the cited sources and our own simulations. A log of this use is kept by the authors. The MATLAB files submitted with this report reproduce all results (\texttt{run\_all.m}).
 \end{rw}
 \vfy{check this wording against the Lecture 1 guidelines on Canvas}
 

diff --git a/matlab/week12_validation.m b/matlab/week12_validation.m
@@ -160,9 +160,9 @@ for i = 1:3
     S = T{i,1};
     subplot(3,3,i);   plot(S.t, deg(S.x(:,1)), S.t, deg(S.xhat(:,1)), '--'); grid on; ylabel('\theta [deg]'); title(T{i,2});
     subplot(3,3,3+i); plot(S.t, deg(S.x(:,2)), S.t, deg(S.xhat(:,2)), '--'); grid on; ylabel('\alpha [deg]');
-    subplot(3,3,6+i); plot(S.t, S.u); grid on; ylabel('V_m [V]'); xlabel('t [s]'); yline([P.Vmax -P.Vmax], 'r--');
+    subplot(3,3,6+i); plot(S.t, S.u); grid on; ylabel('V_m [V]'); xlabel('t [s]'); yline([P.Vmax -P.Vmax], 'r--'); ylim([-12 12]);
 end
-subplot(3,3,1); legend('true', 'estimate', 'Location', 'southeast');
+% No legend (it covers the traces): the report caption says solid = true, dashed = estimate.
 furuta_savefig(gcf, 'w12_validation_overview', 5.0, 2.3);   % printed at 0.7\textwidth, so text is 8 pt
 
 figure; plot(S3p.t, deg(S3p.x(:,1)), S3i.t, deg(S3i.x(:,1))); grid on;

diff --git a/matlab/week9_model_and_openloop.m b/matlab/week9_model_and_openloop.m
@@ -11,8 +11,8 @@ sys = ss(A, B, C, D, 'StateName', {'theta','alpha','theta_dot','alpha_dot'}, ...
 disp('A ='); disp(A); disp('B ='); disp(B);
 p_ol = eig(A);
 fprintf('Open-loop poles: %s\n', mat2str(p_ol.', 4));
-fprintf('Reachability rank : %d of %d\n', rank(ctrb(A, B)), size(A, 1));
-fprintf('Observability rank: %d of %d (theta and alpha)\n', rank(obsv(A, C)), size(A, 1));
+fprintf('Reachability rank : %d of %d (condition number %.3g)\n', rank(ctrb(A, B)), size(A, 1), cond(ctrb(A, B)));
+fprintf('Observability rank: %d of %d (theta and alpha; condition number %.3g)\n', rank(obsv(A, C)), size(A, 1), cond(obsv(A, C)));
 fprintf('Observability rank: %d (theta only), %d (alpha only)\n', ...
         rank(obsv(A, C(1,:))), rank(obsv(A, C(2,:))));
 z_theta = tzero(ss(A, B, C(1,:), 0));

diff --git a/matlab/week11_observer.m b/matlab/week11_observer.m
@@ -86,7 +86,7 @@ ylabel('||e||'); xlabel('t [s]'); yticks([1e-9 1e-6 1e-3 1]);
 % No legend (it hides the curves); the report caption names them: blue angles [rad], orange rates [rad/s],
 % dashed rates with exact encoders.
 subplot(3, 2, 6); plot(S_fs.t, S_fs.u, S_obs.t, S_obs.u, '--'); grid on; xlim([0 1.5]);
-ylabel('V_m [V]'); xlabel('t [s]'); legend('full state', 'observer-based', 'Location', 'southeast');
+ylabel('V_m [V]'); xlabel('t [s]'); legend('true state', 'observer-based', 'Location', 'southeast');
 furuta_savefig(gcf, 'w11_observer_convergence', 7.16, 2.9);
 
 %% 3. Choice of observer poles: speed vs noise

diff --git a/matlab/run_all.m b/matlab/run_all.m
@@ -2,7 +2,6 @@ function run_all()
 %RUN_ALL Reproduce every numerical result and figure in the report.
 %   Run from the matlab/ folder. Requires the Control System Toolbox.
 %   Figures are written to ../figures. Total run time is 3-7 minutes (R2025b).
-%   The Kalman filter study (week11_kalman, doc 09) is separate: the report doesn't use it.
 scripts = {'week9_model_and_openloop', ...           % model, open loop (Lab 9)
            'week10_state_feedback', ...              % pole placement, integrator (Lab 10)
            'week10_pole_placement_derivation', ...   % hand derivation check (doc 06)

diff --git a/report/furuta_diagram.py b/report/furuta_diagram.py
@@ -156,6 +156,7 @@ def main():
     b.set_ylim(-0.1, 0.17)
     fig.tight_layout()
     out = Path(__file__).resolve().parent.parent / "figures" / "furuta_diagram.png"
+    out.parent.mkdir(parents=True, exist_ok=True)
     fig.savefig(out, dpi=300, bbox_inches="tight")
     print(f"Saved {out}")
 

diff --git a/docs/LOGBOOK.md b/docs/LOGBOOK.md
@@ -457,3 +457,21 @@ AI-assisted: merge and fit.
 - **antigravity_cli skill:**
   - **Liveness:** per-run heartbeat status, logs kept, `died` exit code 8, process-tree kill on timeout, and `agy_status.py`.
   - **Errors:** real failure reasons are reported, so the output-token limit was found behind the earlier exit-3 failures; the wrapper retries with a shorter-answer request.
+
+### Final Claude marking (97/100) and fixes
+
+- **Marker verdict:** a fresh strict marker gave 97/100, a go for submission. It flagged Problem Definition "aims justified" (−3) and a set of consistency issues, all applied (`scratch/final_marker_fixes.py`).
+- **Problem Definition:** III-A now justifies arm tracking, as a balancing vehicle must also move to a commanded position [Pujol]; a repeated III-B clause was trimmed to pay for it.
+- **IV-B:**
+  - Jack's rewrite of this paragraph is kept. "D4 then beat D2 on every test (Table III)" now cites the with-integrator results (1.38 vs 1.97 s, 14.6° vs 15.0°, 9.0 vs 9.7 V), since Table III has no integrator.
+  - "D2–D4 all meet" the linear criteria; the 26° is labelled D4 with the true state (V-D too).
+- **Symbols and terms:** the encoder offset is now b_e and the RHP zero z₀; "tap" is used throughout (no "bump").
+- **Wording:**
+  - aluminium-bar mass within 4%;
+  - "the step needs only 0.63 V";
+  - 8×10⁻¹⁶ by 4 s;
+  - "once anticlockwise".
+- **Captions:** dotted |1+L| = 0.5 explained; Table III defines OS, US and V₁₀°; Fig. 2 caption says two plants fall before the tap.
+- **Other text:** damping symbols and units in V-E; "still 0.22 V" with torques; the conclusion no longer says "double-counted"; the Acknowledgment says the log is "kept by the authors".
+- **Figures:** Figs. 1 and 6 re-exported with no numbers changed. Fig. 1 has no legend (the caption names the line styles) and ±12 V axes so the ±10 V limits show; Fig. 6 legend reads "true state".
+- **Package:** README equation numbers (2)–(4); stale Kalman note removed from `run_all.m`; `furuta_diagram.py` creates `figures/`. PDF 8 pages (6-page body), zip rebuilt.
